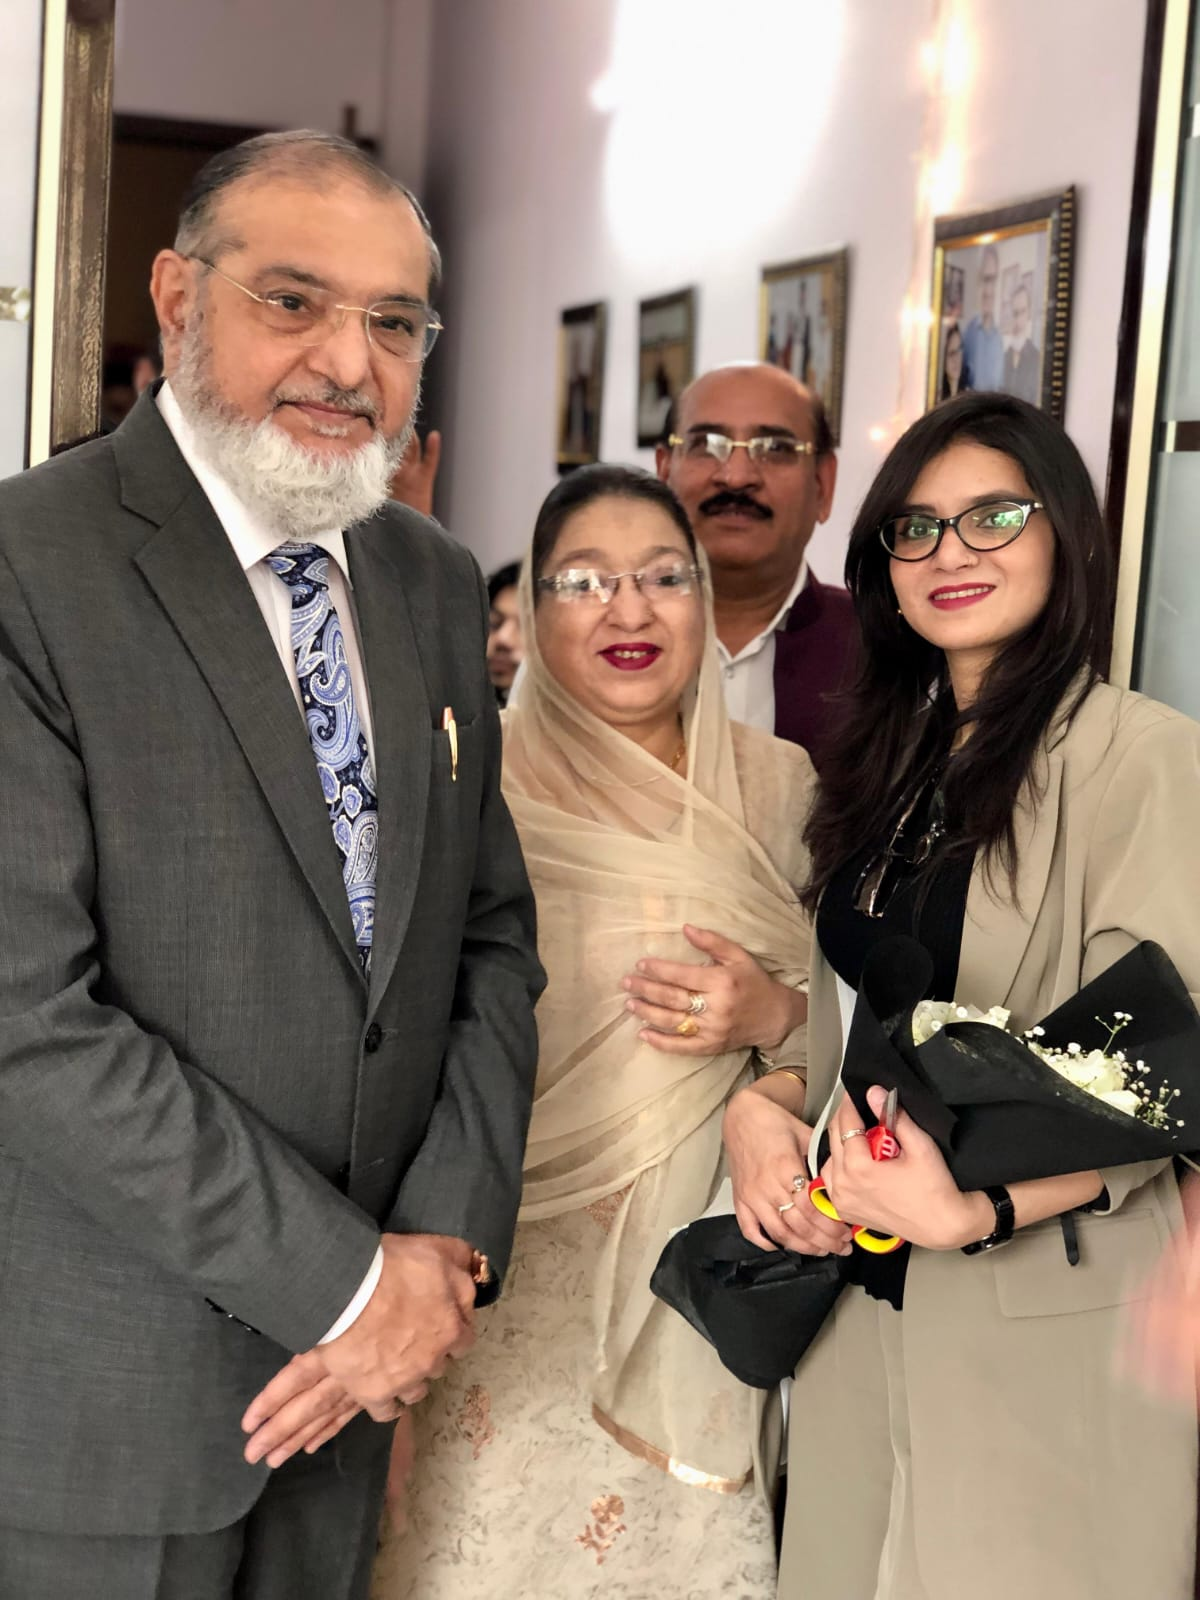
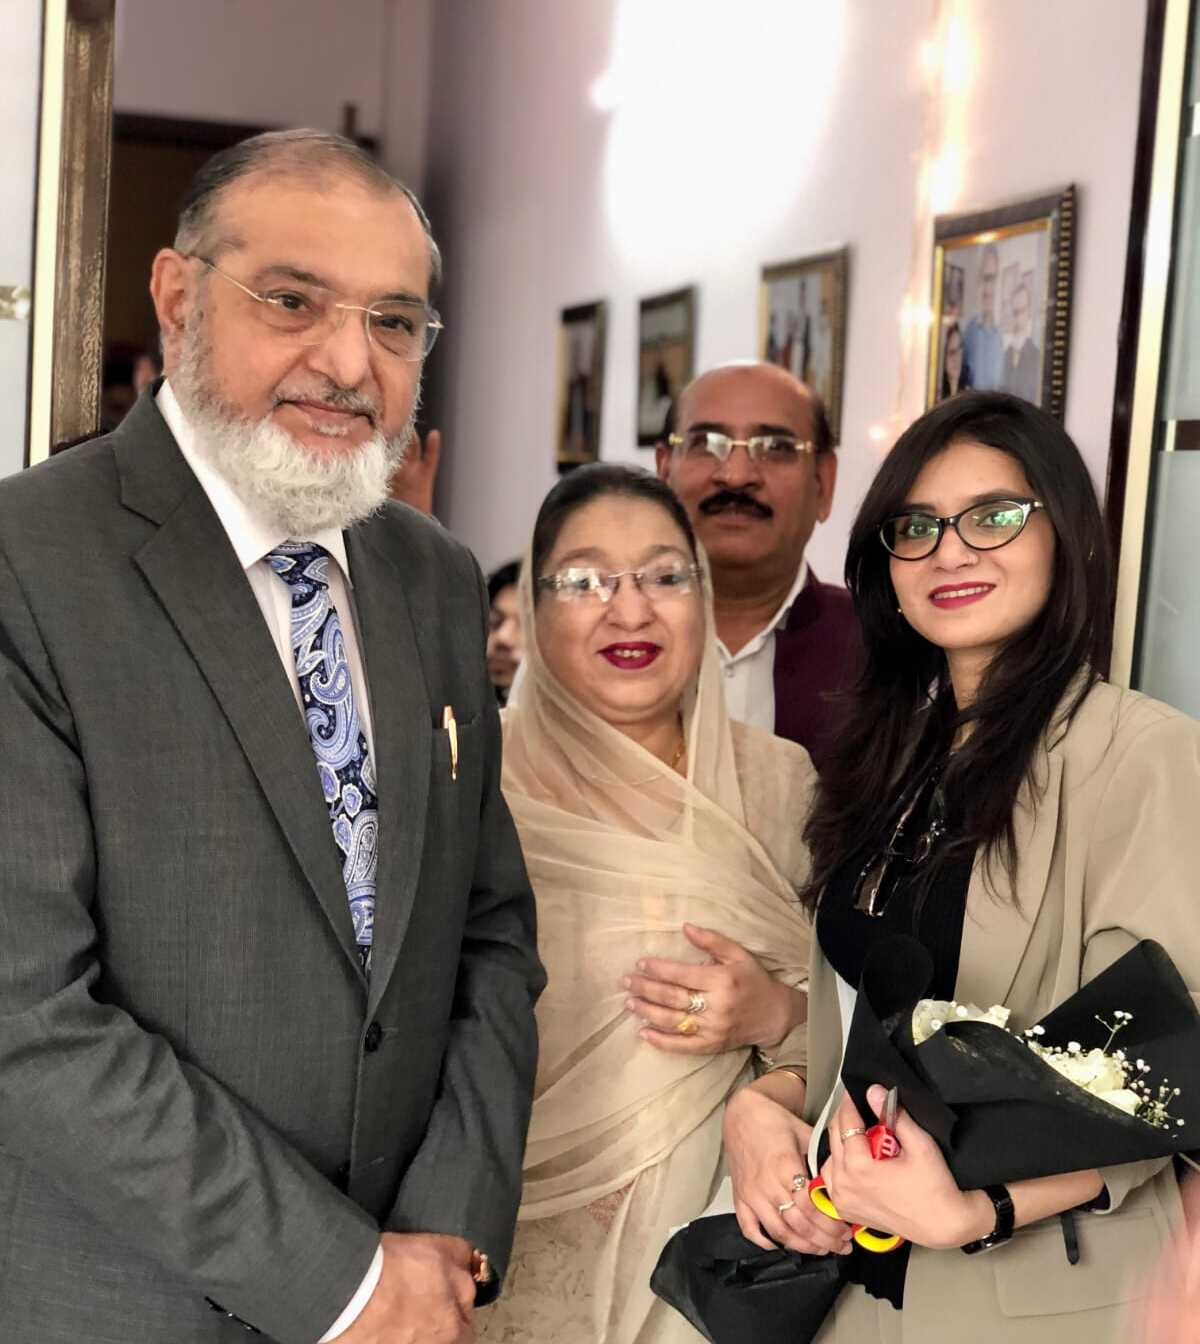
done

diff --git a/src/pages/GetInvolved.tsx b/src/pages/GetInvolved.tsx
@@ -8,7 +8,7 @@ import {
   CheckCircle,
   Phone,
 } from "lucide-react";
-import teamOutdoor from "@/assets/team-outdoor.jpeg";
+import teamOutdoor from "@/assets/team-bg.jpeg";
 import { useEffect } from "react";
 
 const fadeUp = {
@@ -83,34 +83,14 @@ const GetInvolved = () => {
 
   return (
     <main className="pt-16">
-      {/* Hero */}
-      <section className="relative h-[60vh] min-h-[400px] flex items-center overflow-hidden">
-        <div className="absolute inset-0">
-          <img
-            src={teamOutdoor}
-            alt="Get involved"
-            className="w-full h-full object-cover"
-          />
-          <div className="absolute inset-0 bg-gradient-to-r from-foreground/80 to-foreground/40" />
-        </div>
-        <div className="container mx-auto px-4 relative z-10">
-          <motion.div
-            initial={{ opacity: 0, y: 40 }}
-            animate={{ opacity: 1, y: 0 }}
-            transition={{ duration: 0.8 }}
-          >
-            <p className="text-primary text-sm font-semibold tracking-widest uppercase mb-3">
-              Join Us
-            </p>
-            <h1 className="font-display text-4xl md:text-5xl font-bold text-primary-foreground mb-4">
-              Services
-            </h1>
-            <p className="text-primary-foreground/70 text-lg max-w-lg">
-              Multiple ways to contribute to building emotionally resilient
-              communities.
-            </p>
-          </motion.div>
-        </div>
+      <section className="relative w-full overflow-hidden">
+        <img
+          src={teamOutdoor}
+          alt="Get involved"
+          className="w-full h-auto object-contain"
+        />
+
+        <div className="absolute inset-0 bg-gradient-to-r from-foreground/80 to-foreground/40" />
       </section>
 
       {/* Ways to contribute */}

diff --git a/src/pages/WhatWeDo.tsx b/src/pages/WhatWeDo.tsx
@@ -130,9 +130,9 @@ const WhatWeDo = () => {
   return (
     <main className="pt-16">
       {/* Hero */}
-      <section className="relative h-[70vh] min-h-[400px] flex items-center overflow-hidden">
+      <section className="relative h-[50vh] md:h-[70vh] min-h-[400px] flex items-center overflow-hidden">
         <div className="absolute inset-0">
-          <img src={skillTraining} alt="Our work" className="w-full h-[170%] object-cover" />
+          <img src={skillTraining} alt="Our work" className="w-full h-full md:h-[150%] md:object-cover object-contain" />
           <div className="absolute inset-0 bg-gradient-to-r from-foreground/80 to-foreground/40" />
         </div>
         <div className="container mx-auto px-4 relative z-10">
@@ -145,14 +145,12 @@ const WhatWeDo = () => {
               Our Work
             </p>
             <h1 className="font-display text-4xl md:text-5xl font-bold text-primary-foreground mb-4">
-              About Calmora Foundation
+              About
             </h1>
             <p className="text-primary-foreground/70 text-lg max-w-4xl">
               Calmora Foundation is a New Delhi-based non-profit organization
               focused on structured psycho-social stabilization and mental
-              health system integration in India. Our work bridges
-              hospital-based psychological support and community-level mental
-              hygiene outreach to reduce long-term psychosocial risk.
+              health system integration in India.
             </p>
           </motion.div>
         </div>

diff --git a/src/pages/Index.tsx b/src/pages/Index.tsx
@@ -41,7 +41,7 @@ const Index = () => {
             {/* Accent bar */}
             <div className="absolute -left-6 top-2 w-1 h-24 bg-primary rounded-full hidden md:block" />
 
-            <h1 className="font-display text-5xl md:text-7xl font-bold text-foreground leading-tight mb-8">
+            <h1 className="font-display text-3xl md:text-5xl font-bold text-foreground leading-tight mb-8">
               Preventing psychological and
               <br />
               social risks through community action.

diff --git a/src/components/Navbar.tsx b/src/components/Navbar.tsx
@@ -21,7 +21,7 @@ const Navbar = () => {
           <img
             src={logo}
             alt="Calmora Foundation"
-            className="h-60 object-contain"
+            className="h-14 object-contain"
           />
         </Link>
 
